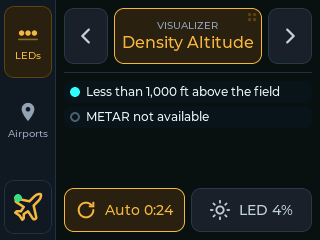
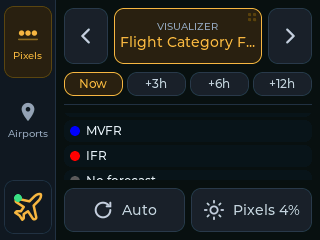
Screenshot: the Pixels panel on Flight Category Forecast, with its step chips

diff --git a/README.md b/README.md
@@ -11,7 +11,7 @@ drives pixels itself.
 
 | Pixels | Airports | An airport's card |
 |---|---|---|
-| ![The Pixels panel: the visualizer, its legend, Auto and Pixels](docs/leds.png) | ![The Airports panel: a page of airports and the page strip](docs/airports.png) | ![An airport's card: its METAR, and Locate, AWOS and ATIS](docs/card.png) |
+| ![The Pixels panel: the visualizer, its steps, its legend, Auto and Pixels](docs/leds.png) | ![The Airports panel: a page of airports and the page strip](docs/airports.png) | ![An airport's card: its METAR, and Locate, AWOS and ATIS](docs/card.png) |
 | **Brightness** | **Splash** | **Update** |
 | ![The brightness sheet](docs/brightness.png) | ![The splash screen](docs/splash.png) | ![The firmware update screen](docs/update.png) |
 
